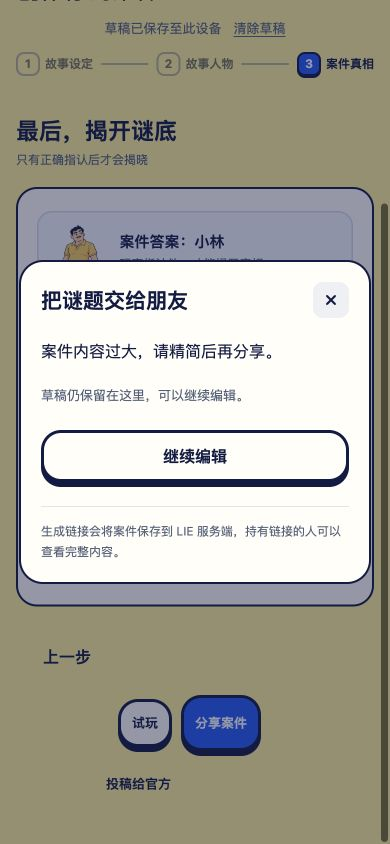
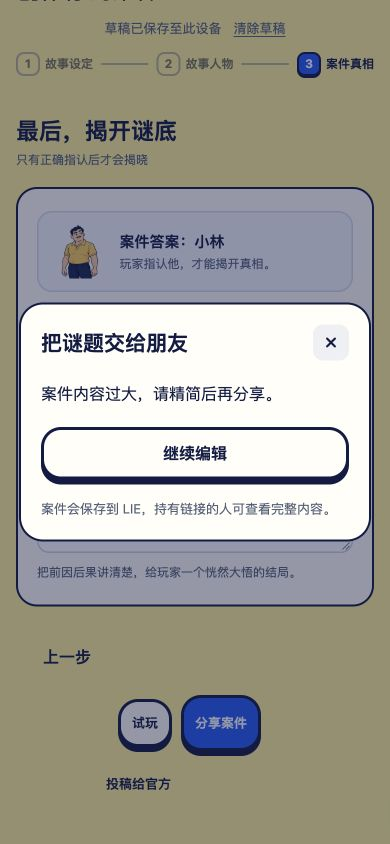
design: simplify sharing dialog content and controls

Changed region(s): [[0.0308, 0.2156, 1.0, 1.0], [0.8308, 0.4005, 0.8615, 0.4313]]

diff --git a/design/share-storage-demo/style.css b/design/share-storage-demo/style.css
@@ -10,11 +10,13 @@
 .role-switch button[aria-pressed=true] { background: #111b45; border-color: #111b45; color: white; }
 .demo-shell { max-width: 1200px; padding: 24px 32px 60px; }
 .demo-shell .page-heading { margin-top: 28px; }
-.share-disclosure { font-size: 12px; line-height: 1.7; color: var(--lie-muted); margin: 24px 0 0; padding-top: 14px; border-top: 1px solid #e3e5e9; }
+.share-note { font-size: 13px; line-height: 1.7; color: var(--lie-muted); margin: 18px 0 0; }
+.share-copy-group { display: flex; align-items: center; gap: 12px; }
+.share-copy-group input { flex: 1; min-width: 0; }
+.share-copy-group .lie-button { flex: none; padding-inline: 18px; }
 .demo-shell .ending-layout { grid-template-columns: minmax(0, 1.35fr) minmax(0, 1fr); }
 .reveal-text { white-space: pre-wrap; }
 .share-lead { margin: 0 0 20px; }
-.snapshot-note { color: var(--lie-muted); font-size: 13px; margin: 16px 0 24px; }
 .share-actions { display: flex; align-items: center; gap: 16px; flex-wrap: wrap; }
 .copy-error { color: #9a4e3e; font-size: 13px; }
 .state-card { min-height: 370px; display: flex; flex-direction: column; justify-content: center; align-items: center; }
@@ -26,6 +28,7 @@
 .demo-feedback { background: var(--lie-soft-blue); padding: 10px; border-radius: 12px; font-size: 13px; }
 @keyframes spin { to { transform: rotate(360deg); } }
 @media (prefers-reduced-motion: reduce) { .loading-ring { animation: none; } }
-@media (max-width: 670px) { .prototype-bar { padding: 12px 16px; }.prototype-heading { gap: 3px; }.prototype-heading span { width: 100%; font-size: 11px; }.prototype-controls { gap: 10px; }.prototype-controls p { display: none; }.demo-shell { padding: 16px 16px 36px; }.demo-shell .ending-layout { grid-template-columns: 1fr; }.demo-shell .player-preview { display: none; }.demo-shell .page-heading { align-items: start; flex-direction: column; gap: 5px; }.share-actions { align-items: stretch; flex-direction: column; }.state-card { padding: 28px 18px; }.state-card h1 { font-size: 24px; }.prototype-controls label { font-size: 12px; }.demo-shell .intro-card { padding: 28px 20px; }.demo-shell .intro-characters { padding-inline: 0; }.demo-shell .flow-hint { gap: 18px; }.demo-shell .flow-hint li { padding: 6px 4px; font-size: 12px; }.demo-shell .flow-hint li + li::before { left: -15px; }.demo-shell .intro-start { font-size: 19px; } }
-.share-pending { min-height: 170px; display: flex; flex-direction: column; align-items: center; justify-content: center; padding: 12px 0 24px; text-align: center; }
-.share-pending p { margin: 18px 0 6px; font-weight: 700; }
+@media (max-width: 670px) { .prototype-bar { padding: 12px 16px; }.prototype-heading { gap: 3px; }.prototype-heading span { width: 100%; font-size: 11px; }.prototype-controls { gap: 10px; }.prototype-controls p { display: none; }.demo-shell { padding: 16px 16px 36px; }.demo-shell .ending-layout { grid-template-columns: 1fr; }.demo-shell .player-preview { display: none; }.demo-shell .page-heading { align-items: start; flex-direction: column; gap: 5px; }.share-actions, .share-copy-group { align-items: stretch; flex-direction: column; }.state-card { padding: 28px 18px; }.state-card h1 { font-size: 24px; }.prototype-controls label { font-size: 12px; }.demo-shell .intro-card { padding: 28px 20px; }.demo-shell .intro-characters { padding-inline: 0; }.demo-shell .flow-hint { gap: 18px; }.demo-shell .flow-hint li { padding: 6px 4px; font-size: 12px; }.demo-shell .flow-hint li + li::before { left: -15px; }.demo-shell .intro-start { font-size: 19px; } }
+.share-pending { display: flex; align-items: center; gap: 16px; padding: 12px 0; }
+.share-pending p { margin: 0; }
+.share-pending .loading-ring { flex-shrink: 0; }

diff --git a/design/share-storage-demo/ShareDemo.vue b/design/share-storage-demo/ShareDemo.vue
@@ -105,20 +105,16 @@ onUnmounted(cancelPending)
       <p v-if="notice != null" class="demo-feedback" role="status">{{ notice }}</p>
     </main>
     <EditorDialog v-if="dialog" title="把谜题交给朋友" @close="closeShare">
-      <div v-if="sharing" class="share-pending" role="status"><span class="loading-ring" aria-hidden="true"></span><p>正在保存案件…</p><span class="muted">分享链接马上就好。</span></div>
+      <div v-if="sharing" class="share-pending" role="status"><span class="loading-ring" aria-hidden="true"></span><p>正在保存案件…</p></div>
       <template v-else-if="shareError != null">
         <p class="share-lead" role="status">{{ shareError }}</p>
-        <p class="snapshot-note">草稿仍保留在这里，可以继续编辑。</p>
         <div class="share-actions"><UiButton v-if="authorResult !== 'large'" @click="share">重试</UiButton><UiButton variant="secondary" @click="closeShare">继续编辑</UiButton></div>
       </template>
       <template v-else>
-        <p class="share-lead">链接准备好了，朋友打开就能玩。</p>
-        <label class="field">分享链接<input :value="shareUrl" readonly @focus="($event.target as HTMLInputElement).select()"></label>
-        <p class="snapshot-note">修改案件后需要重新生成链接，旧链接保留当时的内容。</p>
+        <div class="share-copy-group"><input :value="shareUrl" aria-label="分享链接" readonly @focus="($event.target as HTMLInputElement).select()"><UiButton @click="copy">{{ copied ? '已复制' : '复制链接' }}</UiButton></div>
         <p v-if="copyError" class="copy-error" role="status">无法自动复制，请选中上方链接手动复制。</p>
-        <div class="share-actions"><UiButton @click="copy">{{ copied ? '已复制链接' : '复制分享链接' }}</UiButton></div>
       </template>
-      <p class="share-disclosure">生成链接会将案件保存到 LIE 服务端，持有链接的人可以查看完整内容。</p>
+      <p class="share-note">{{ !sharing && shareError == null ? '案件已保存到 LIE，链接保留当前内容；修改后需重新分享。持有链接的人可查看完整内容。' : '案件会保存到 LIE，持有链接的人可查看完整内容。' }}</p>
     </EditorDialog>
   </div>
 

diff --git a/docs/share-storage-ui-demo.md b/docs/share-storage-ui-demo.md
@@ -6,7 +6,7 @@
 
 独立Vue/TypeScript原型在 `design/share-storage-demo/`，复用现有ProductHeader、UiButton、EditorDialog及编辑器/游戏样式，沿用已确认的中文B视觉。未改正式Editor/Application、UI公共组件或其他专项文件。
 
-按用户后续反馈修订：作者从现有第三步结局页点击「分享案件」立即打开同一弹窗，弹窗内显示保存中、失败或成功；不在底部按钮展示等待或在页面底部另报接口错误。成功弹窗保留「把谜题交给朋友」标题、复制链接和快照说明，去掉旧URL字符计数。存储说明统一放在分享弹窗底部，保存中、失败、成功均显示一次；编辑页不显示。不增加确认弹窗或发布流程。网络或服务失败在弹窗内提示，并给「重试」「继续编辑」；草稿保持。超限也在同一弹窗提示精简内容，仅给「继续编辑」。等待期间可关闭弹窗，模拟计时器随之停止，迟到结果不重新打开弹窗；不承诺真实请求因此没有保存。弹窗不增加Demo导航，接收方体验从外部工具栏切换。
+按用户后续反馈修订：作者从现有第三步结局页点击「分享案件」立即打开同一弹窗，弹窗内显示保存中、失败或成功；不在底部按钮展示等待或在页面底部另报接口错误。成功弹窗按用户最新精简反馈仅保留「把谜题交给朋友」标题、链接与复制操作组、合并小字说明三组信息；去掉成功提示句、可见字段label（保留aria-label）、独立快照段落、分隔线与分离的存储说明。保存中、失败使用准确的将来时说明，编辑页不显示。不增加确认弹窗或发布流程。网络或服务失败在弹窗内提示，并给「重试」「继续编辑」；草稿保持。超限也在同一弹窗提示精简内容，仅给「继续编辑」。等待期间可关闭弹窗，模拟计时器随之停止，迟到结果不重新打开弹窗；不承诺真实请求因此没有保存。弹窗不增加Demo导航，接收方体验从外部工具栏切换。
 
 玩家打开时展示加载，随后沿现有接案页展示案件与人物。网络错误可重新加载，不存在时提示向作者确认链接，支持返回首页。不会自动进入语音或申请麦克风。
 
@@ -48,4 +48,6 @@ node node_modules/vite/bin/vite.js --config design/share-storage-demo/vite.confi
 
 修订验收：子agent本轮IAB工具不可用，经协调使用新建专属Chrome tab验收，未操作root可见IAB或用户其他tab。桌面保存中→成功、网络失败→弹窗重试、等待中关闭后迟到结果不重开；390×844失败→继续编辑、超限仅继续编辑、保存中→成功均通过。390px无横向溢出，console无warn/error。验收后重置viewport、关闭此Chrome tab，5177原服务继续保留。截图新增share-loading与share-error的desktop/mobile对照，覆盖成功/超限的旧图；初稿图仍可从c4ee历史追溯。
 
-用户再次明确将存储说明从编辑页移入分享弹窗：当前说明置于状态和操作区之后，用低调分隔与小字统一展示，所有分享状态共享一次，未增加任何确认步骤。此修订追加提交，不改已交历史。Chrome专属验收页已核桌面/390×844等待、失败、成功和超限状态，说明均在弹窗内仅出现一次，编辑页不显示；移动无横向溢出。截图已同步更新，验收tab关闭且viewport重置；类型/构建检查通过，原5177服务继续供用户审看。
+用户再次明确将存储说明从编辑页移入分享弹窗：当时说明移至状态和操作区之后；本轮进一步移除分隔线并合并说明，所有分享状态仍共享一次，未增加任何确认步骤。此修订追加提交，不改已交历史。Chrome专属验收页已核桌面/390×844等待、失败、成功和超限状态，说明均在弹窗内仅出现一次，编辑页不显示；移动无横向溢出。截图已同步更新，验收tab关闭且viewport重置；类型/构建检查通过，原5177服务继续供用户审看。
+
+用户认为成功弹窗信息类别与样式过多，本轮合并为三组；等待去掉重复副句，失败去掉重复的草稿保留段落，保留原因与重试/继续编辑。说明为普通小字，不新增图标、确认步骤或组件。旧版设计仍保存在此前提交，用户对照图保存为evidence/review-before-simplification.png。专属Chrome页实测桌面链接/复制同行且保现有输入边框/内距、390px自然堆叠无横向溢出；复制成功、失败重试、等待关闭和超限继续编辑通过，已更新截图并关闭验收页。类型/构建和diff检查通过；原服务保留，正式UI仍待用户批准。
